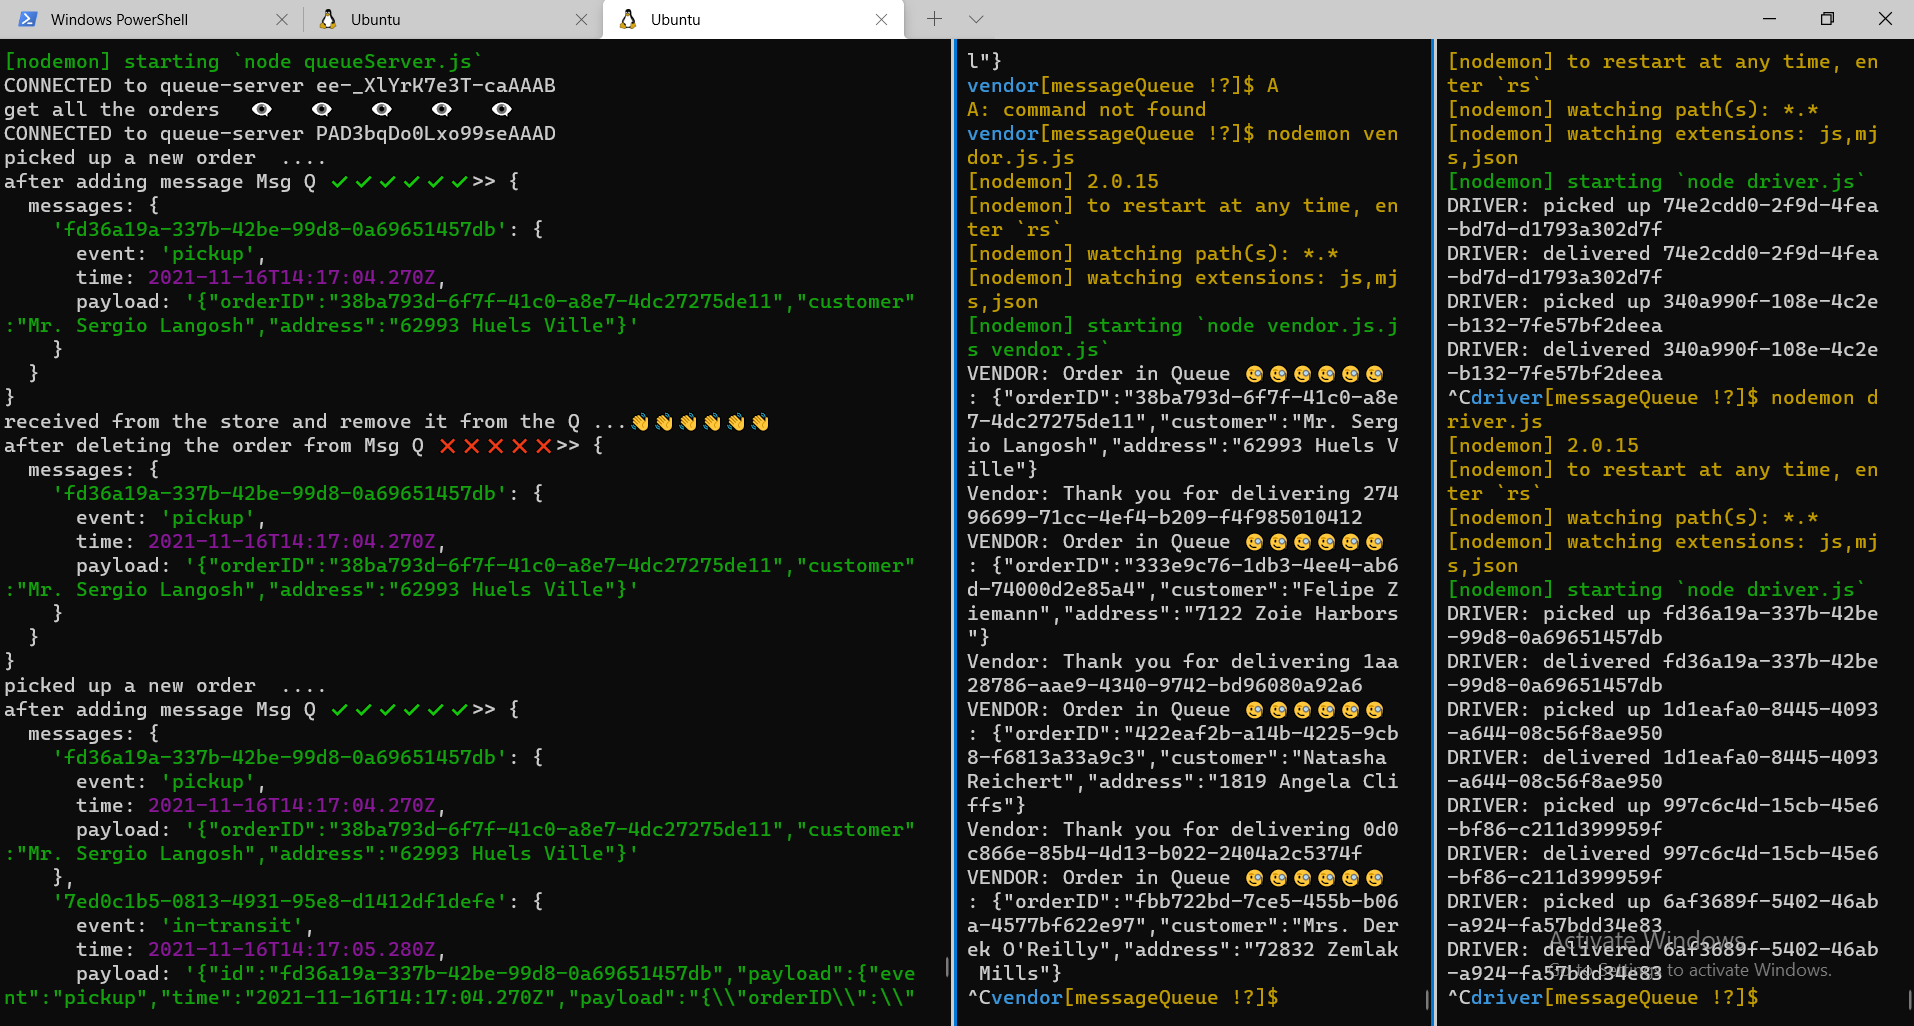
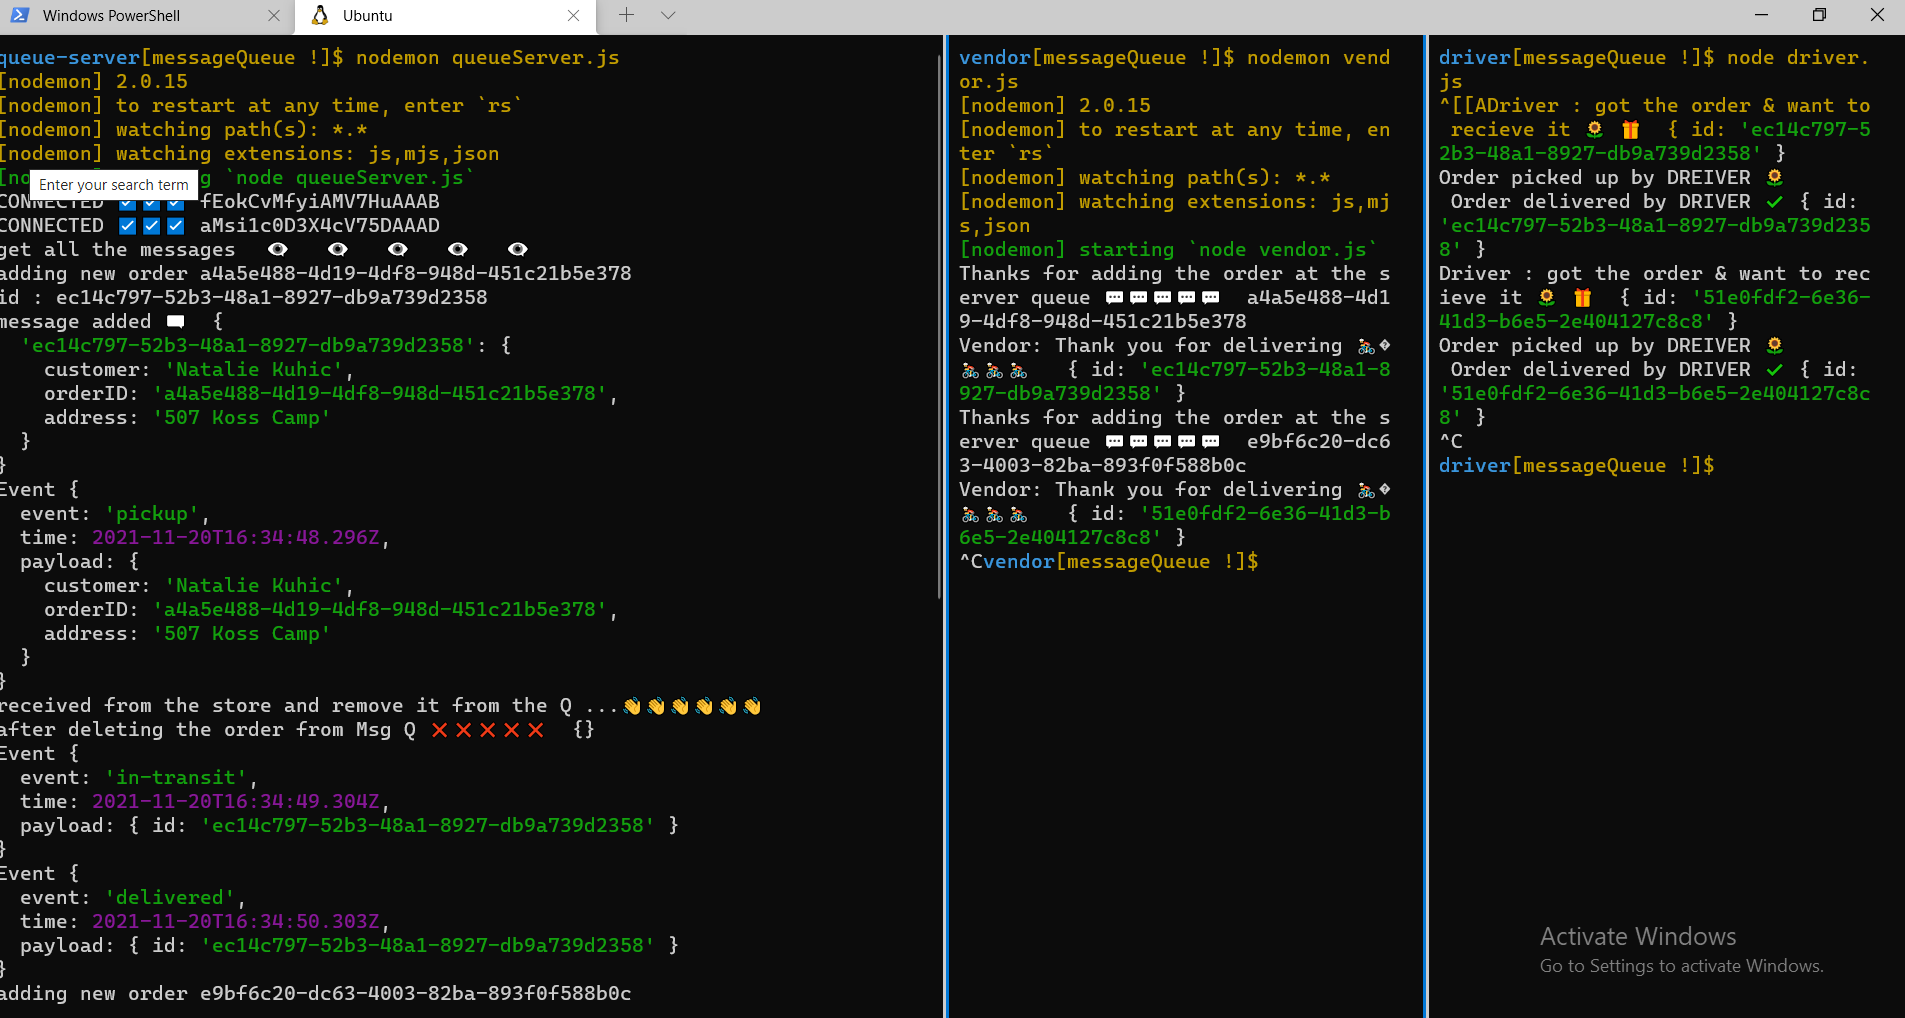
editing lab 13 done

Changed region(s): [[0.0, 0.0, 1.0, 1.0]]

diff --git a/queue-server/queueServer.js b/queue-server/queueServer.js
@@ -1,69 +1,84 @@
-"use strict";
+
+
+
+'use strict'
+
 const PORT = process.env.PORT || 8080;
 const io = require('socket.io')(PORT);
 const uuid = require('uuid').v4;
 
-// our Queue is an object
-// table >> DB
-// keyed Q
+// // our Queue is an object
+// // table >> DB
+// // keyed Q
 const msgQueue = {
     messages: {}
 }
 
-// namespace
-const allCaps = io.of('/caps');
+const caps = io.of('/caps')
 
-allCaps.on('connection', socket => {
-    console.log("CONNECTED to queue-server", socket.id);
+caps.on('connection', socket => {
 
-    socket.on('pickup', payload => {
-        console.log('picked up a new order  ....');
+    console.log("CONNECTED ☑☑☑", socket.id)
 
+    socket.on("pickUp", pickup);
+    function pickup(payload) {
+
+
+        console.log("adding new order", payload.orderID)
         const id = uuid();
-        msgQueue.messages[id] = { 
-                   event: 'pickup',
-                    time: new Date(),
-        
-                    payload: payload};
-        console.log('after adding message Msg Q ✔✔✔✔✔✔>>', msgQueue);
+        console.log("id :", id)
+        msgQueue.messages[id] = payload
 
-        socket.emit('addedOrderAtHub', payload);
+        socket.emit('added', payload);
 
-        allCaps.emit('pickup', { id: id, payload: msgQueue.messages[id] })
-    });
-    socket.on('in-transit', payload => {
-        const id = uuid();
-        msgQueue.messages[id] = { 
-            event: 'in-transit',
-             time: new Date(),
- 
-             payload: payload }
+        caps.emit('order', { id: id, payload: msgQueue.messages.id });
 
-        allCaps.emit('in-transit', { id, payload: msgQueue.messages[id] });
-    });
+        console.log("message added 🗨 ", msgQueue.messages)
+        let order = {
+            event: "pickup",
+            time: new Date(),
+            payload: payload,
+        };
+        console.log("Event", order);
 
-    socket.on('delivered', (payload) => {
-        const id = uuid();
-        msgQueue.messages[id] = { 
-            event: 'delivered',
-             time: new Date(),
- 
-             payload: payload};
-        allCaps.emit('delivered', { id, payload: msgQueue.messages[id] });
-    });
-    socket.on('received', id => {
-        console.log('received from the store and remove it from the Q ...👋👋👋👋👋👋');
-        delete msgQueue.messages[id];
-        console.log('after deleting the order from Msg Q ❌❌❌❌❌>>', msgQueue);
-
-    })
+    }
 
     socket.on('get_all', () => {
-        console.log('get all the orders 👁🗨👁🗨👁🗨👁🗨👁🗨');
-        Object.keys(msgQueue.messages).forEach(id => {
-            socket.emit('message', { id: id, payload: msgQueue.messages[id] })
-        })
-    })
-})
+        console.log("get all the messages 👁🗨👁🗨👁🗨👁🗨👁🗨 ")
 
-module.exports={allCaps}
+        Object.keys(msgQueue.messages).forEach(id => {
+            socket.emit('order', { id: id, payload: msgQueue.messages.id })
+        });
+    });
+
+
+    socket.on('received', msg => {
+
+        console.log("received from the store and remove it from the Q ...👋👋👋👋👋👋")
+        delete msgQueue.messages[msg.id];
+        console.log("after deleting the order from Msg Q ❌❌❌❌❌ ", msgQueue.messages)
+    })
+
+    socket.on("in-transit", inTransit);
+    function inTransit(payload) {
+        let order = {
+            event: "in-transit",
+            time: new Date(),
+            payload: payload,
+        };
+        console.log("Event", order);
+    }
+
+    socket.on("delivered", delivered);
+    function delivered(payload) {
+        let order = {
+            event: "delivered",
+            time: new Date(),
+            payload: payload,
+        };
+        console.log("Event", order);
+        caps.emit('deliveredVendor', payload)
+    }
+
+
+})

diff --git a/vendor/vendor.js b/vendor/vendor.js
@@ -1,41 +1,45 @@
-"use strict";
+'use strict';
 require('dotenv').config();
+const client = require('socket.io-client');
 const PORT = process.env.PORT || 8080;
-const io = require('socket.io-client');
 
-//connect
-const host = `http://localhost:${PORT}`;
-const capsConnection = io.connect(`${host}/caps`)
-const faker = require('faker');
+const host = `http://localhost:${PORT}/caps`;
+const ioClient = client.connect(host);
+const faker = require("faker");
 const nameOfStore = process.env.STORE_NAME;
-
-// const events = require('../events');
-// require('dotenv').config();
+// // const events = require('../events');
 
 
 
-const Thanking = (payload) => {
-    console.log(`Vendor: Thank you for delivering ${payload.id}`);
 
-}
+// // const Thanking = (payload) => {
+// //     console.log(`Vendor: Thank you for delivering : ${JSON.stringify(payload.payload)} `)
+
+// // }
 
 setInterval(() => {
-    let order = {
-        store: nameOfStore,
-        orderID: faker.datatype.uuid(),
-        customer: faker.name.findName(),
-        address: faker.address.streetAddress()
-    }
-    capsConnection.emit('pickup', JSON.stringify(order))
-}, 3000);
+  const payload = {
+    customer: faker.name.findName(),
+    orderID: faker.datatype.uuid(),
+    store: nameOfStore,
+    address: faker.address.streetAddress()
 
-capsConnection.on('addedOrderAtHub', payload => {
+  }
 
-    console.log(`VENDOR: Order in Queue 🧐🧐🧐🧐🧐🧐 :`, payload);
-    // {"orderID":"0d855fcc-d71a-48cd-846b-caf0d5b22be0","customer":"Walter Gerlach","address":"385 Bayer Manors"}
+  ioClient.emit('order', payload);
+  ioClient.emit('pickUp', payload);
+}, 5000);
+ioClient.on('added', payload => {
+  console.log('Thanks for adding the order at the server queue 💬💬💬💬💬 ', payload.orderID)
+})
+ioClient.on('deliveredVendor', delivered)
+function delivered(payload) {
 
-});
+  console.log('Vendor: Thank you for delivering 🚴🚴🚴🚴🚴 ', payload)
+}
 
-capsConnection.on('delivered', Thanking);
 
 // module.exports = { Thanking };
+
+
+

diff --git a/driver/driver.js b/driver/driver.js
@@ -1,35 +1,34 @@
-"use strict";
-// const events=require('../events');
-// const faker= require('faker');
+'use strict';
 require('dotenv').config();
-const PORT= process.env.PORT || 8080;
-const io =require('socket.io-client');
-
-//connect
-const host=`http://localhost:${PORT}` || 'http://localhost:8080';
-const capsConnection = io.connect(`${host}/caps`)
-const faker = require('faker');
-const nameOfStore = process.env.STORE_NAME;
-
+const PORT = process.env.PORT || 8080;
+const client = require('socket.io-client');
+const host = `http://localhost:${PORT}/caps` || 'http://localhost:8080/caps';
+const capsConnection = client.connect(host);
+// // const events=require('../events');
+// const faker= require('faker');
+// const nameOfStore = process.env.STORE_NAME;
 capsConnection.emit('get_all');
-const pickup=(payload)=>{
 
-    setTimeout(()=>{
-        console.log(`DRIVER: picked up ${payload.id}`);
-        capsConnection.emit('in-transit', JSON.stringify(payload))
-    }, 1000)
+capsConnection.on('order', payload => {
+  console.log("Driver : got the order & want to recieve it 🌻 🎁 ", payload)
+  capsConnection.emit('received', payload)
 
 
 
-setTimeout(() => {
-    console.log(`DRIVER: delivered ${payload.id}`);
-    capsConnection.emit('delivered', JSON.stringify(payload));
-  }, 1500)
+  setTimeout(() => {
+    console.log("Order picked up by DREIVER 🌻  ");
+    capsConnection.emit("in-transit", payload);
+  }, 1000);
+  setTimeout(() => {
+    console.log(" Order delivered by DRIVER ✔", payload);
+    capsConnection.emit("delivered", payload);
+  }, 2000);
 
 
-  capsConnection.emit('received');
-}
-capsConnection.on('pickup',pickup)
+})
+
+//   // module.exports={pickup}
 
 
-  // module.exports={pickup}
+
+

diff --git a/README.md b/README.md
@@ -41,7 +41,7 @@
 
 * [lab 12 pull requset](https://github.com/DimaAlabsi/CAPS-/pull/2)
 
-* [lab 13 pull requset](https://github.com/DimaAlabsi/CAPS-/pull/3)
+* [lab 13 pull requset](https://github.com/DimaAlabsi/CAPS-/pull/4)
 
 
 # dependencies 💯
@@ -55,6 +55,7 @@ jest
 supertest
 Socket.io
 Socket.io-client
+uuid
 
     
 
